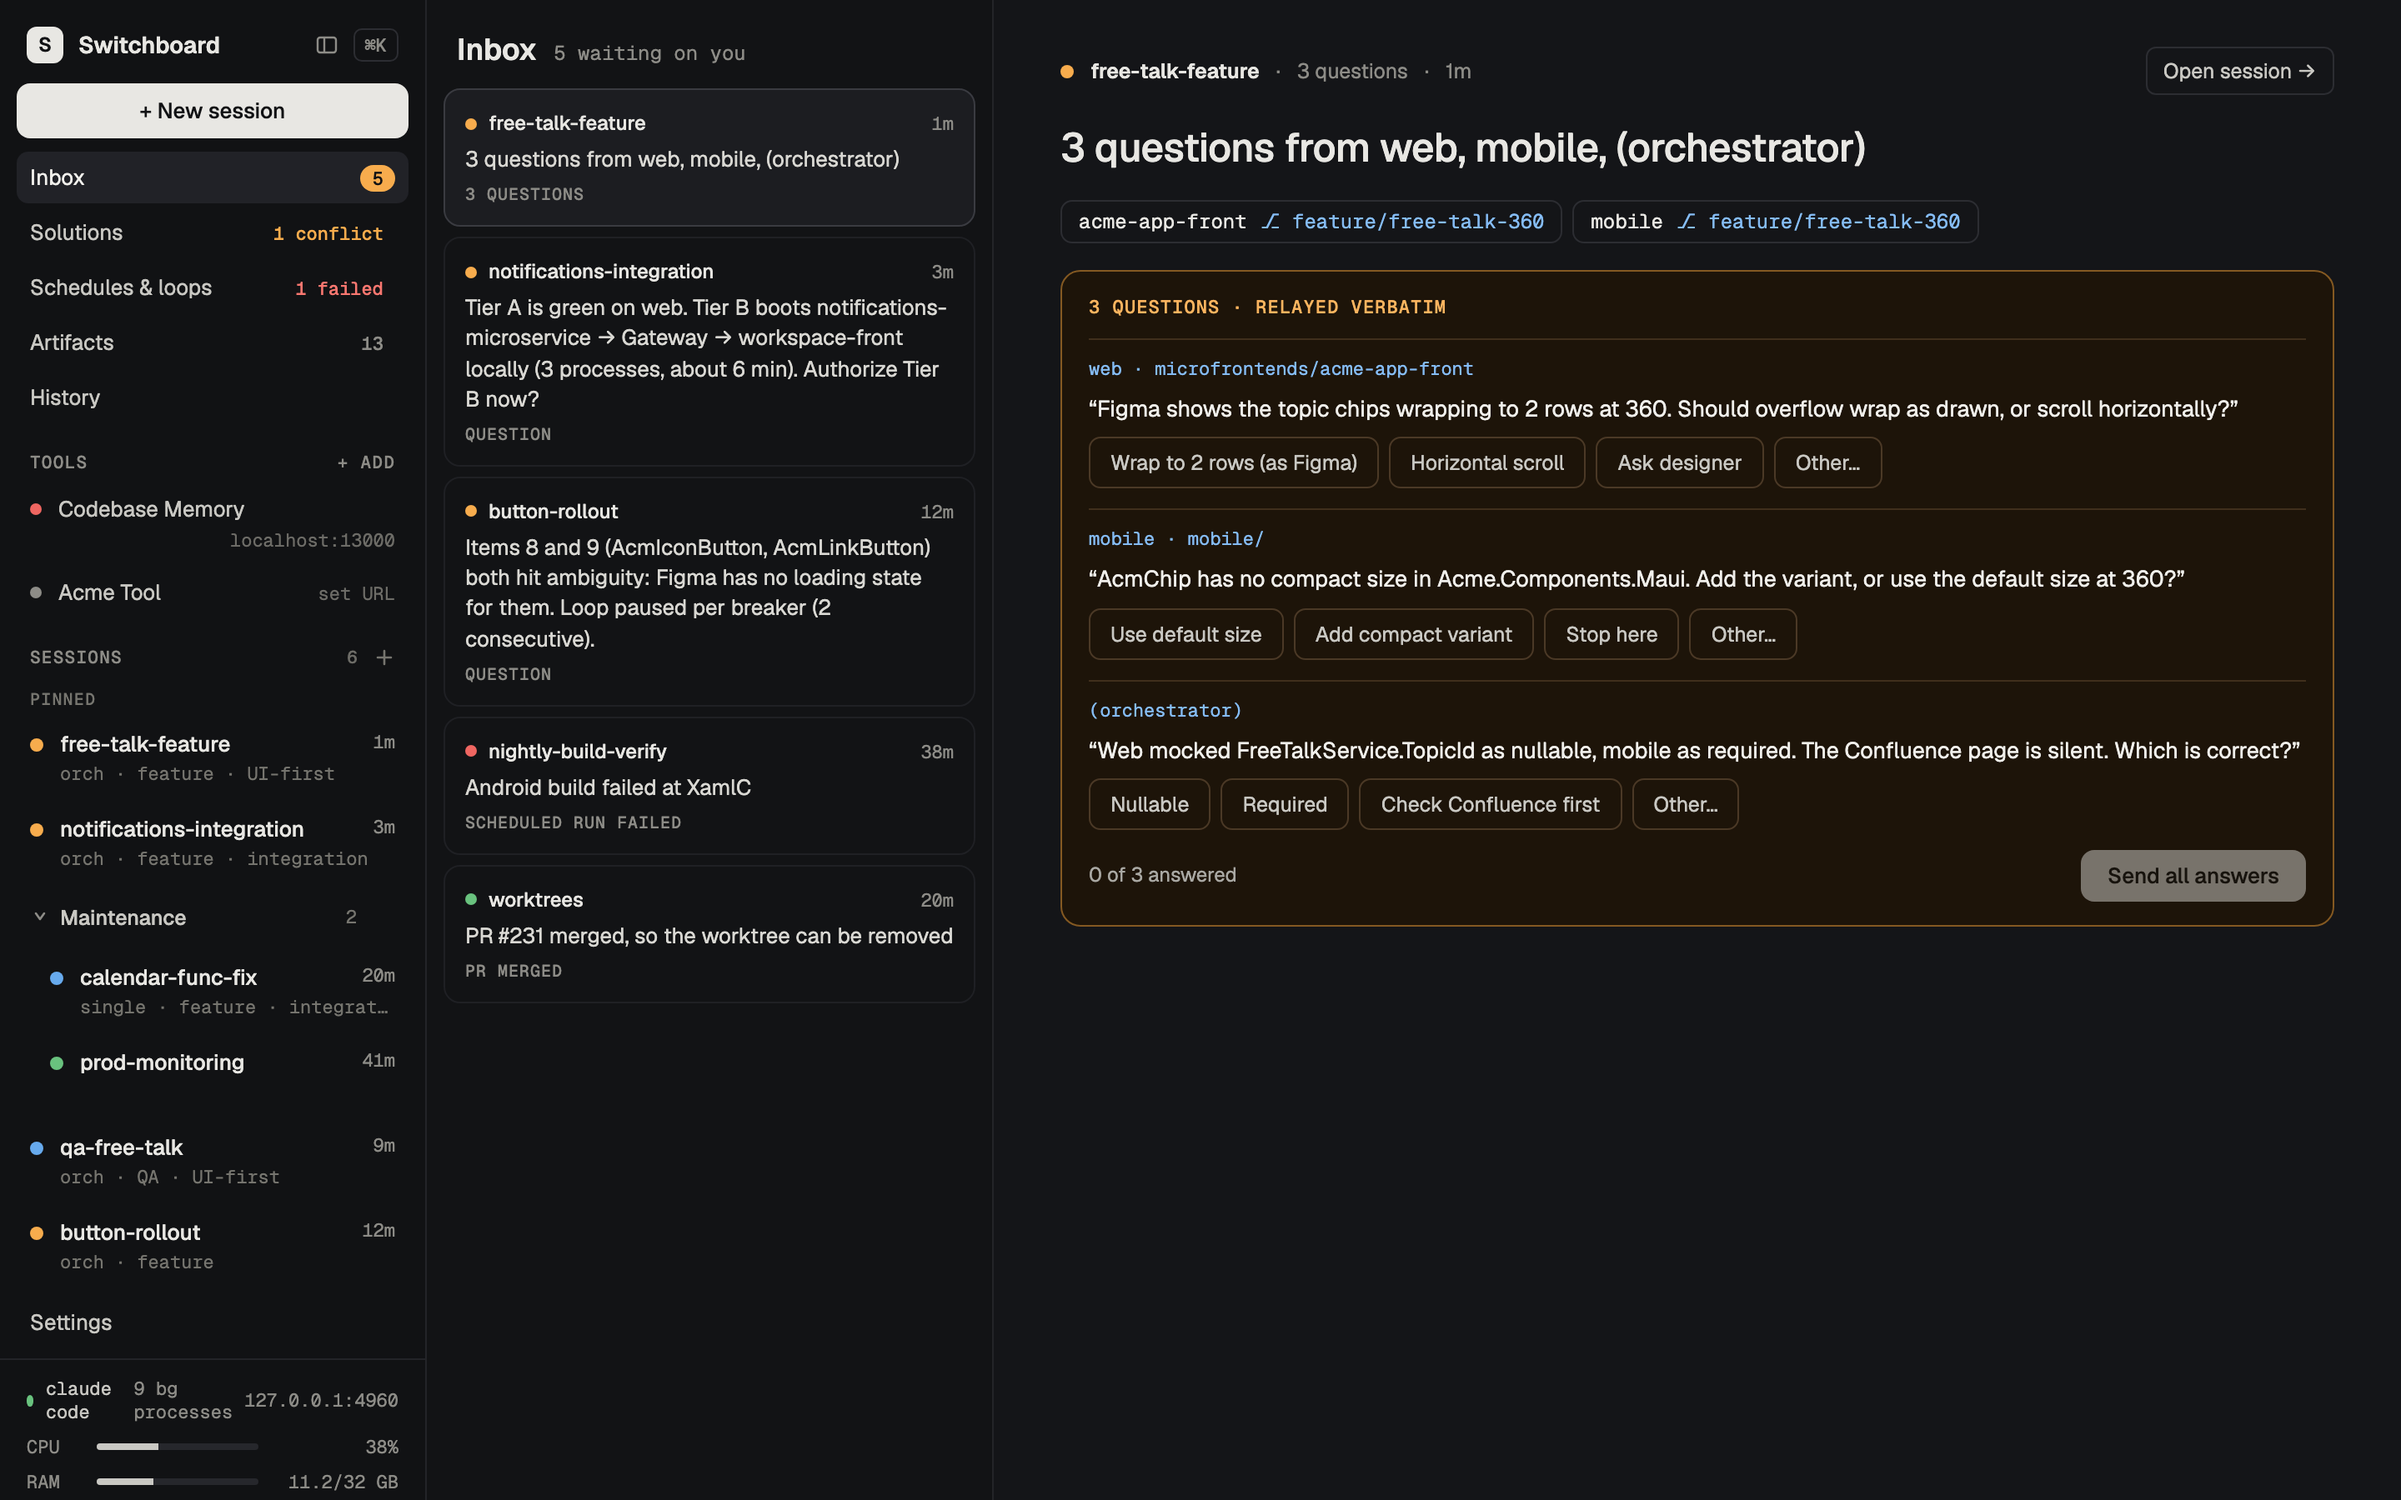
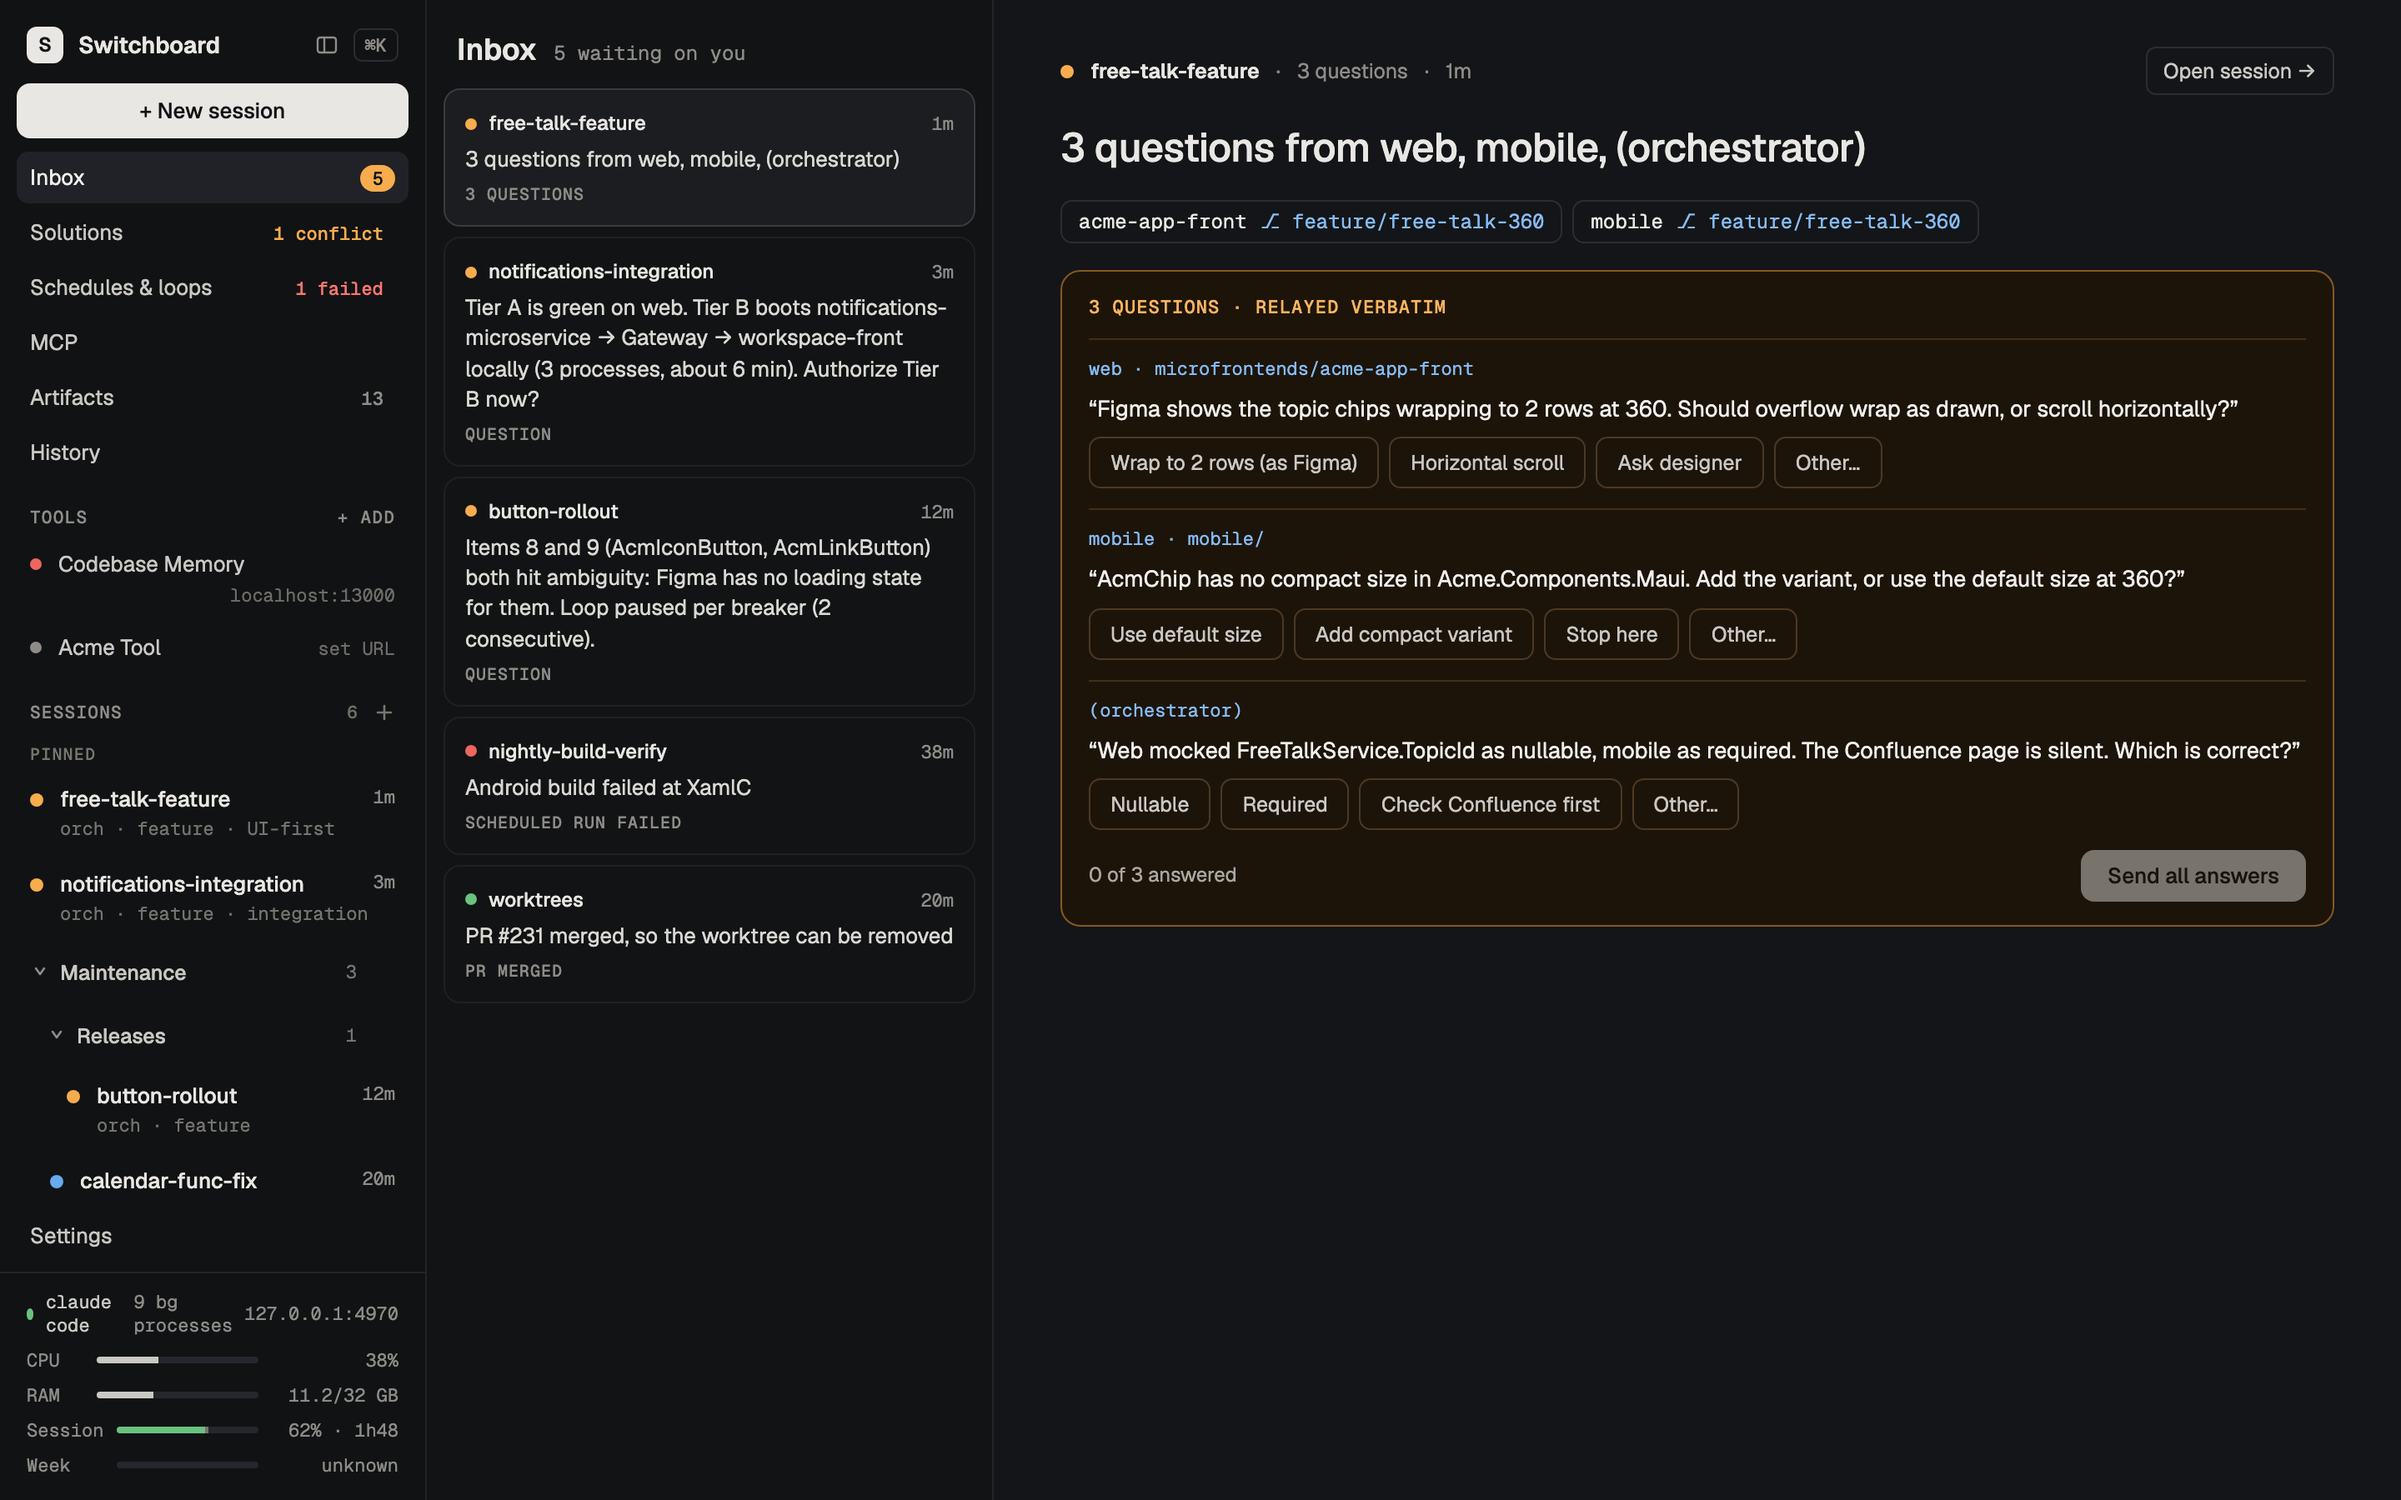
docs: retake README screenshots for 1.5 (MCP, Accounts, Simple form, subfolder), add Artifacts

diff --git a/tools/screenshots/readme.ts b/tools/screenshots/readme.ts
@@ -8,14 +8,18 @@
  *   `--no-build`);
  * - the app with the demo seed (`SWITCHBOARD_DEMO=1`, `docs/demo.md`), fake CLIs and
  *   the setup wizard off, as every test server (`tests/helpers/server-process.ts`);
- * - through its API: two pinned sessions and a "Maintenance" folder in the sidebar
- *   (D54) and the machine name `studio-mac` (its default is this computer's host name).
+ * - through its API: two pinned sessions, a "Maintenance" folder with a "Releases"
+ *   subfolder in the sidebar (D54, D58) and the machine name `studio-mac` (its default is
+ *   this computer's host name);
+ * - through the throwaway Claude config folder (demo mode has no data for them): two example
+ *   MCP servers (`acme-docs`, `example-http`) for the MCP page, and demo sign-ins
+ *   (`dev@example.com`, plus a second profile `team@example.com`) for Settings → Accounts.
  * Not shown, because demo mode cannot: a paired machine (the demo starts no peers,
  * so Settings → Machines shows its empty state) and a live activity line (the demo
  * runs no processes). The app has one (dark) theme, so every view is shot once, as
  * `<nn>-<name>-dark.png`, at 1440×900 and device scale 2 (each file < 600 KB).
  */
-import { mkdir, writeFile } from 'node:fs/promises';
+import { mkdir, readdir, writeFile } from 'node:fs/promises';
 import path from 'node:path';
 import { fileURLToPath } from 'node:url';
 import { type Browser, type Page, chromium } from '@playwright/test';
@@ -25,6 +29,10 @@ import { type PeerNode, startPeerNode } from '../../tests/helpers/peers.ts';
 
 /** Where the screenshots go. */
 export const README_SHOTS_DIR = path.join(REPO_ROOT, 'docs', 'screenshots');
+
+/** Demo e-mail addresses of the two Claude Code accounts (reserved example domain). */
+const DEMO_EMAIL = 'dev@example.com';
+const DEMO_EMAIL_2 = 'team@example.com';
 
 /** Viewport and device scale of every screenshot. */
 const VIEWPORT = { width: 1440, height: 900 } as const;
@@ -56,17 +64,15 @@ const SHOTS: readonly Shot[] = [
       await page.getByTestId('new-session').click();
       const modal = page.getByTestId('modal-new-session');
       await modal.waitFor();
-      // D56: the shot shows the Full form (Simple is the fresh-install default).
-      await modal.getByTestId('ns-mode-full').click();
-      await page.getByTestId('ns-name').fill('free-talk-640');
-      await modal.getByPlaceholder('What should be implemented?').fill('Free talk screen at 640, web and mobile. Figma frame is in the AI handoff page.');
-      await page.getByTestId('ns-branch').fill('PROJ-3021-free-talk-640');
-      await page.getByTestId('ns-pill').filter({ hasText: /^Workspace orchestrator$/ }).click();
-      for (const chip of ['acme-app-front', 'mobile']) await page.getByTestId('ns-chip').filter({ hasText: new RegExp(`^${chip}$`) }).click();
-      await page.getByTestId('br-epic-key').fill('PROJ-3010');
-      await page.getByTestId('br-epic-summary').fill('Free talk');
-      await page.getByTestId('br-parent').fill('PROJ-3020');
-      await page.getByTestId('ns-branching').scrollIntoViewIfNeeded();
+      // D56: the shot shows the Simple form (the default): folder, message, title, model, CLI and worktree.
+      await page.getByTestId('ns-simple-title').fill('Fix the login redirect');
+      await page.getByTestId('ns-message').fill('Users land on a blank page after signing in from the pricing page. Find the cause and fix it.');
+      // D57: one attached screenshot (a 1×1 PNG with a demo name).
[1 lines of base64/hex data omitted]
+      const chooser = page.waitForEvent('filechooser');
+      await modal.getByTestId('attach-button').click();
+      await (await chooser).setFiles({ name: 'blank-page.png', mimeType: 'image/png', buffer: png });
+      await page.waitForTimeout(1_000);
       // The preflight runs 800 ms after the inputs settle.
       await page.waitForTimeout(2_000);
     },
@@ -89,12 +95,48 @@ const SHOTS: readonly Shot[] = [
     name: '06-sidebar',
     go: (page, base) => open(page, base, '/solutions'),
   },
+  {
+    name: '07-mcp',
+    async go(page, base) {
+      await open(page, base, '/mcp');
+      await page.getByTestId('view-mcp').getByTestId('mcp-server').first().waitFor();
+      // The Codex / OpenCode section runs their CLIs in the demo folder (not on this computer), so it
+      // would print this computer's paths and an error. It is left out of the shot.
+      await page.getByTestId('mcp-cli-section').waitFor();
+      await page.getByTestId('mcp-cli-section').evaluate((node) => node.remove());
+    },
+  },
+  {
+    name: '08-accounts',
+    async go(page, base) {
+      await open(page, base, '/settings/accounts');
+      await page.getByTestId('account-profile').first().waitFor();
+    },
+  },
 ];
 
 /** The demo instance with its sidebar pinned and foldered (D54) and a neutral machine name. */
 async function startWorld(root: string): Promise<PeerNode> {
-  const main = await startPeerNode(root, 'main', { env: { SWITCHBOARD_DEMO: '1' } });
+  // Demo mode has no MCP or account data of its own, so the throwaway Claude config folder
+  // holds two harmless example MCP servers and the fake CLI's signed-in marker (a demo email).
+  const configDir = path.join(root, 'main', 'claude-config');
+  await mkdir(configDir, { recursive: true });
+  await writeFile(
+    path.join(configDir, '.claude.json'),
+    JSON.stringify({
+      mcpServers: {
+        'acme-docs': { type: 'stdio', command: 'npx', args: ['-y', '@acme/docs-mcp'], env: { ACME_DOCS_TOKEN: 'demo' } },
+        'example-http': { type: 'http', url: 'https://mcp.example.com/mcp', headers: { Authorization: 'Bearer demo' } },
+      },
+    }),
+  );
+  await writeFile(path.join(configDir, '.fake-auth.json'), JSON.stringify({ loggedIn: true, email: DEMO_EMAIL }));
+  const main = await startPeerNode(root, 'main', { env: { SWITCHBOARD_DEMO: '1', FAKE_CLAUDE_AUTH_REQUIRED: '1' } });
   try {
+    const profile = await main.call('POST', '/api/accounts/profiles', { cli: 'claude', name: 'Second account' });
+    if (profile.status !== 201) throw new Error(`profile: HTTP ${profile.status}`);
+    const profileDir = path.join(main.dataDir, 'profiles', 'claude');
+    for (const id of await readdir(profileDir)) await writeFile(path.join(profileDir, id, '.fake-auth.json'), JSON.stringify({ loggedIn: true, email: DEMO_EMAIL_2 }));
     // The default is this computer's host name.
     await main.call('PUT', '/api/machines/self', { name: 'studio-mac' });
     const place = async (sessionId: string, where: Record<string, unknown>) => {
@@ -108,6 +150,11 @@ async function startWorld(root: string): Promise<PeerNode> {
     const folderId = (folder.body.folders as Array<{ id: string; name: string }>).find((f) => f.name === 'Maintenance')?.id;
     await place('calendar-func-fix', { place: 'folder', folderId });
     await place('prod-monitoring', { place: 'folder', folderId });
+    // D58: a subfolder of Maintenance.
+    const sub = await main.call('POST', '/api/sidebar/folders', { name: 'Releases', parentId: folderId });
+    if (sub.status !== 201) throw new Error(`subfolder: HTTP ${sub.status}`);
+    const subId = (sub.body.folders as Array<{ id: string; name: string }>).find((f) => f.name === 'Releases')?.id;
+    await place('button-rollout', { place: 'folder', folderId: subId });
     return main;
   } catch (error) {
     await main.server.stop();

diff --git a/README.md b/README.md
@@ -209,12 +209,16 @@ Everything else, such as saved folders, tools, notification and usage settings, 
 
 <table>
   <tr>
-    <td width="50%"><img src="docs/screenshots/02-new-session-dark.png" alt="The New session form with solutions picked and the Branching section"><br><sub>New session: solutions, worktrees and epic/task branching</sub></td>
+    <td width="50%"><img src="docs/screenshots/02-new-session-dark.png" alt="The Simple New session form: folder, message with an attached screenshot, title, CLI and account, model"><br><sub>New session: the Simple form (Full adds solutions, worktrees and epic/task branching)</sub></td>
     <td width="50%"><img src="docs/screenshots/03-inbox-dark.png" alt="The Inbox with a card of three agent questions"><br><sub>Inbox: every agent question in one place</sub></td>
   </tr>
   <tr>
     <td width="50%"><img src="docs/screenshots/04-schedules-dark.png" alt="Schedules and loops with their last 14 runs"><br><sub>Schedules &amp; loops</sub></td>
-    <td width="50%"><img src="docs/screenshots/06-sidebar-dark.png" alt="The Solutions view, with pinned sessions and a Maintenance folder in the sidebar"><br><sub>Solutions, and a sidebar with pins and folders</sub></td>
+    <td width="50%"><img src="docs/screenshots/06-sidebar-dark.png" alt="The Solutions view, with pinned sessions, a Maintenance folder and its Releases subfolder in the sidebar"><br><sub>Solutions, and a sidebar with pins, folders and subfolders</sub></td>
+  </tr>
+  <tr>
+    <td width="50%"><img src="docs/screenshots/07-mcp-dark.png" alt="The MCP servers page with a stdio and an HTTP server in the user scope"><br><sub>MCP servers: check, reconnect, sign in, add and edit</sub></td>
+    <td width="50%"><img src="docs/screenshots/08-accounts-dark.png" alt="Settings, Accounts: automatic switching rules and two Claude Code accounts"><br><sub>Settings → Accounts: several logins per CLI, switched on usage limits</sub></td>
   </tr>
   <tr>
     <td width="50%"><img src="docs/screenshots/05-machines-dark.png" alt="Settings, Machines: this machine, the peer listener and pairing"><br><sub>Settings → Machines: pair other Switchboards on your tailnet</sub></td>
@@ -320,6 +324,9 @@ Neither Codex nor OpenCode was run while this was built: their protocols come fr
 - A **conflict card** when two sessions work in the same checkout. **Move … to worktree** isolates one of them onto a new ticket branch, or onto an **existing branch** (local or remote) picked from a searchable list.
 
 [`docs/solutions.md`](docs/solutions.md)
+
+### Artifacts
+The **Artifacts** page lists what the sessions produced, derived from their successful tool results (nothing is typed in by hand): diffs per solution and branch, pull requests and branches, docs, contracts, QA matrices, follow-ups and ticket replies. It shows `n of m`, has a search box (artifacts, solutions, branches, session titles) and type filters (**All**, **Diffs**, **PRs / branches**, **Docs & contracts**, **Ticket replies**). Each row shows the type, name, solution and branch, source session, status and age; a row opens its session, and the list refreshes while sessions work. [`docs/derivations.md`](docs/derivations.md) → *Artifacts view*
 
 ### Schedules and loops
 - **Cron schedules:** start sessions from templates.
